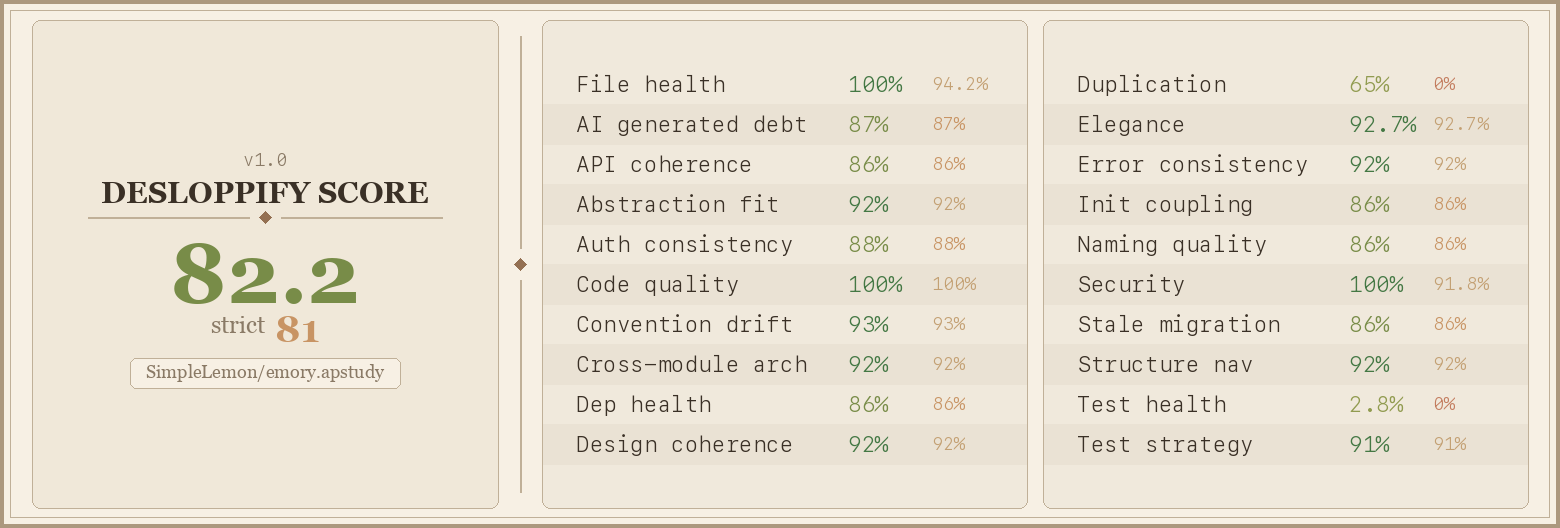
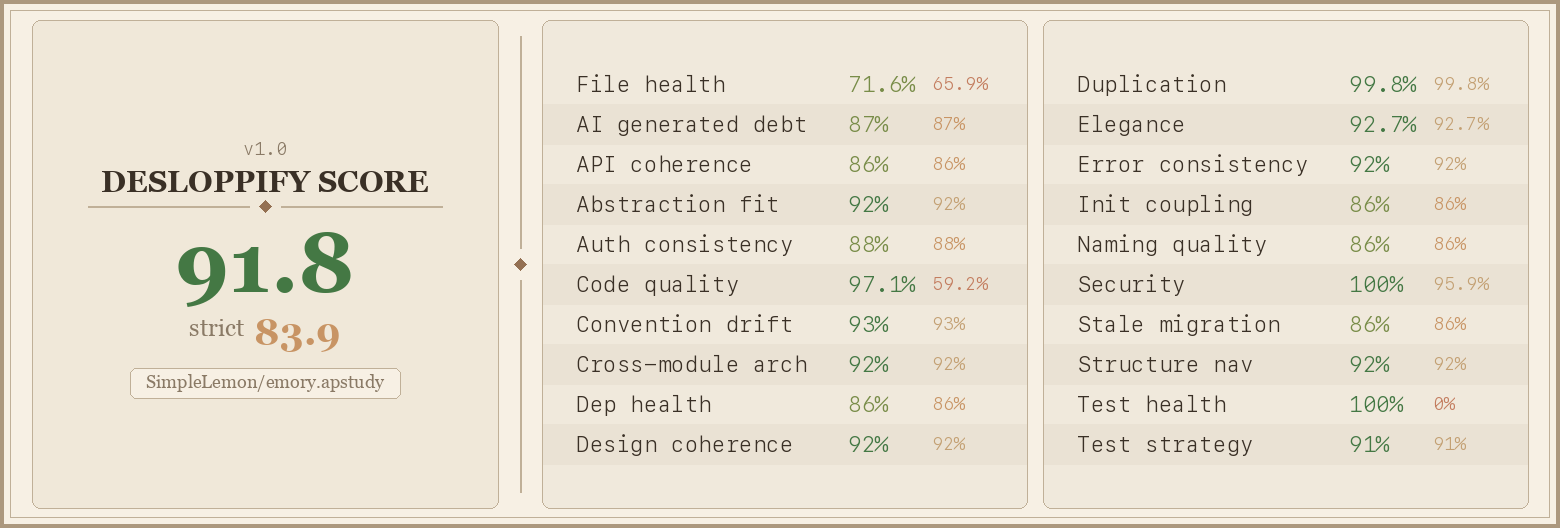
Optimization

diff --git a/static/js/files/index.js b/static/js/files/index.js
@@ -306,20 +306,20 @@
         }), state);
     }
 
-    function openFolderModal(...args) {
-        return modals.openFolderModal(...args);
+    function openFolderModal(mode, item = null) {
+        return modals.openFolderModal(mode, item);
     }
 
-    async function saveFolderModal(...args) {
-        return modals.saveFolderModal(...args);
+    async function saveFolderModal() {
+        return modals.saveFolderModal();
     }
 
-    function openMoveModal(...args) {
-        return modals.openMoveModal(...args);
+    function openMoveModal(context) {
+        return modals.openMoveModal(context);
     }
 
-    async function saveMoveModal(...args) {
-        return modals.saveMoveModal(...args);
+    async function saveMoveModal() {
+        return modals.saveMoveModal();
     }
 
     function openUploadModal(...args) {
@@ -443,8 +443,8 @@
         return workflows.selectedTotal(...args);
     }
 
-    function openModal(...args) {
-        return modals.openModal(...args);
+    function openModal(modal, focusTarget = null) {
+        return modals.openModal(modal, focusTarget);
     }
 
     function closeModal(...args) {

diff --git a/static/js/chat.js b/static/js/chat.js
@@ -713,7 +713,8 @@
     try {
       els.audio.currentTime = 0;
       void els.audio.play();
-    } catch (_) {
+    } catch (error) {
+      void error;
       // Browsers may block sound until the user interacts with the page.
     }
   }
@@ -1437,7 +1438,8 @@
       });
       for (const user of payload.users || []) registerKnownUser(user);
       if (roomKey(state.activeRoom) === roomKey(room)) renderPresenceDrivenUi();
-    } catch (_) {
+    } catch (error) {
+      void error;
       // Profile resolution is best-effort; presence counts can still render.
     } finally {
       state.resolvingPresenceUsers.delete(resolveKey);
@@ -1946,7 +1948,8 @@
       await window.presences.delete({ presenceId });
       state.presenceRecords.delete(presenceId);
       renderPresenceDrivenUi();
-    } catch (_) {
+    } catch (error) {
+      void error;
       // Expiration will clean this up if the delete races navigation or reconnects.
     }
   }

diff --git a/static/js/core/sidebar.js b/static/js/core/sidebar.js
@@ -384,7 +384,8 @@ function setupChatSummaryBadge() {
       if (response.ok) {
         renderBadge(await response.json());
       }
-    } catch (_) {
+    } catch (error) {
+      void error;
       // The next visible-tab interval will try again.
     } finally {
       inFlight = false;

diff --git a/static/js/dashboard/daily-quote/data.js b/static/js/dashboard/daily-quote/data.js
@@ -37,7 +37,8 @@
                 body: JSON.stringify(payload),
                 keepalive: true,
             }).catch(() => {});
-        } catch {
+        } catch (error) {
+            void error;
             // Reporting should never affect quote rendering.
         }
     }